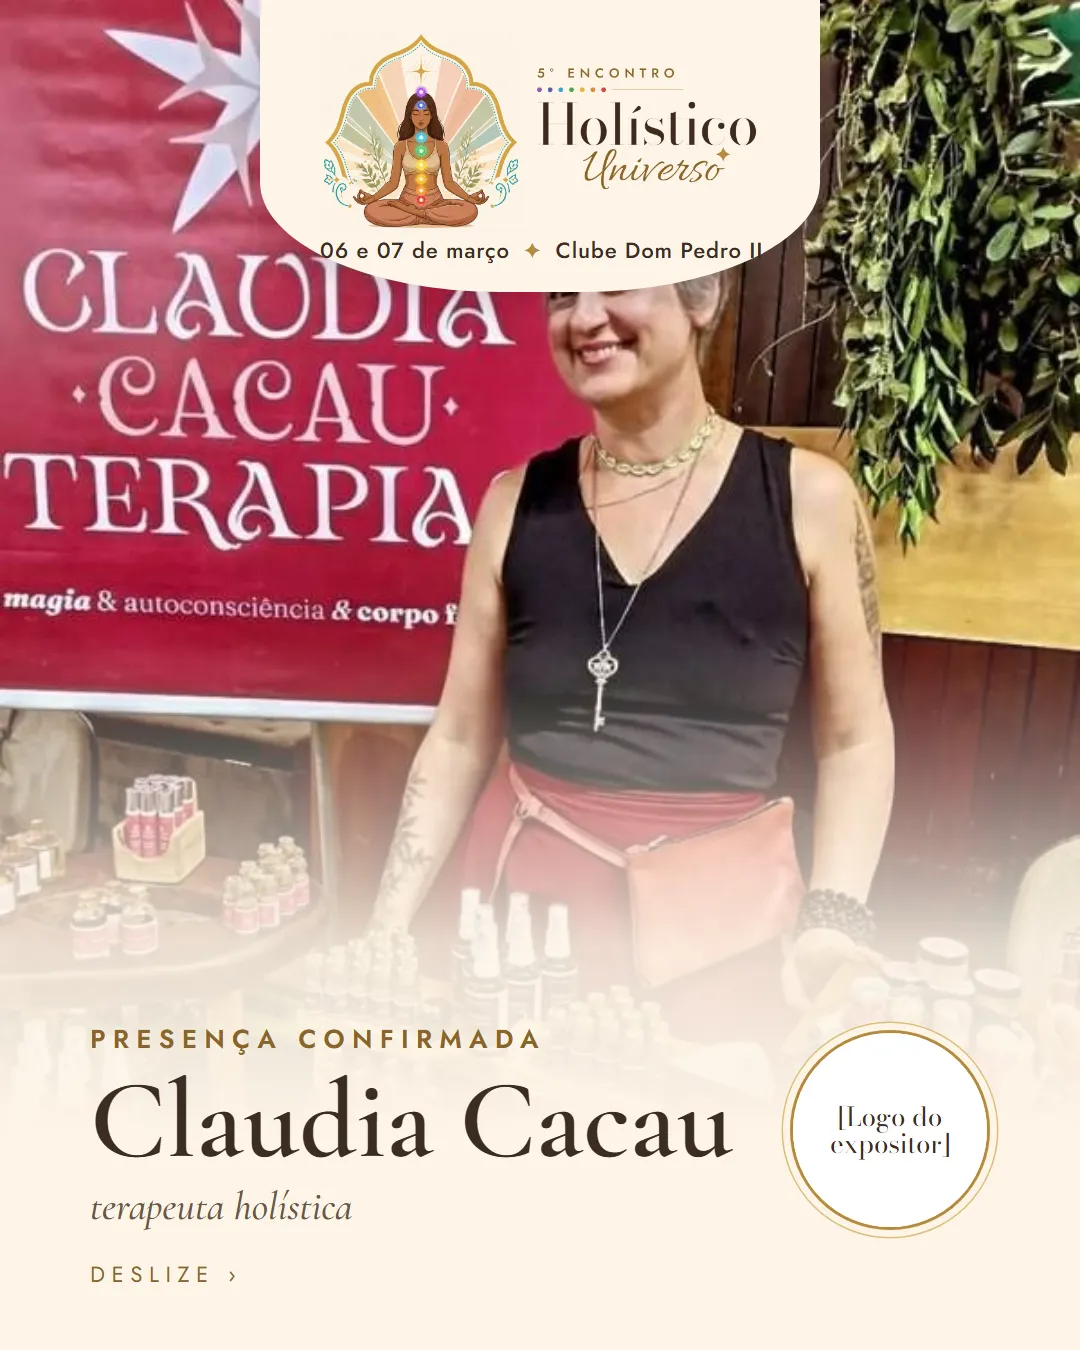
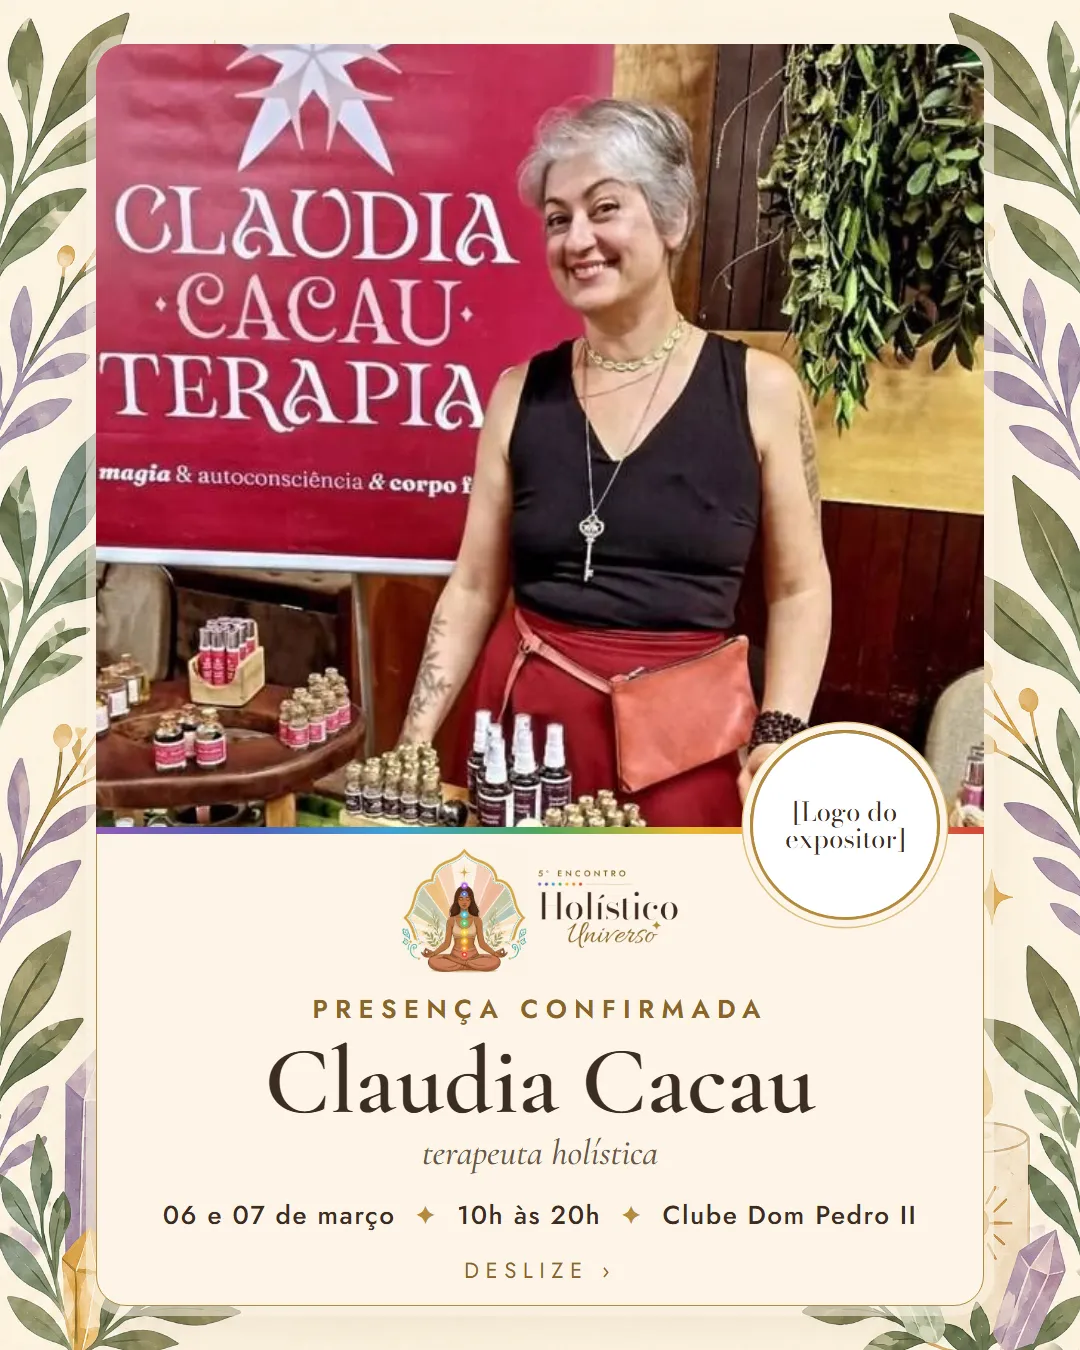
Holistico: capa da variacao A do expositor na moldura B do kit, foto grande (02/11)

diff --git a/public/excellence/2026-11-02-holistico-instagram/dados.js b/public/excellence/2026-11-02-holistico-instagram/dados.js
@@ -399,7 +399,7 @@ window.DADOS = {
      "titulo": "Variação A",
      "etiqueta": "Carrossel",
      "ordem": "1 de 2",
-     "nota": "A foto do expositor no post inteiro, sem moldura, com o logo do Encontro num selo em cima. As telas de dentro seguem a linha do Instagram novo (cartão sobre as plantas). Uma foto por expositor.",
+     "nota": "Na linha do Instagram novo: cartão creme sobre as plantas, com a foto do expositor grande no topo e o fio dos chakras. Uma foto por expositor.",
      "escolhas": [
       {
        "pergunta": "Qual carrossel vira o padrão do expositor?",
